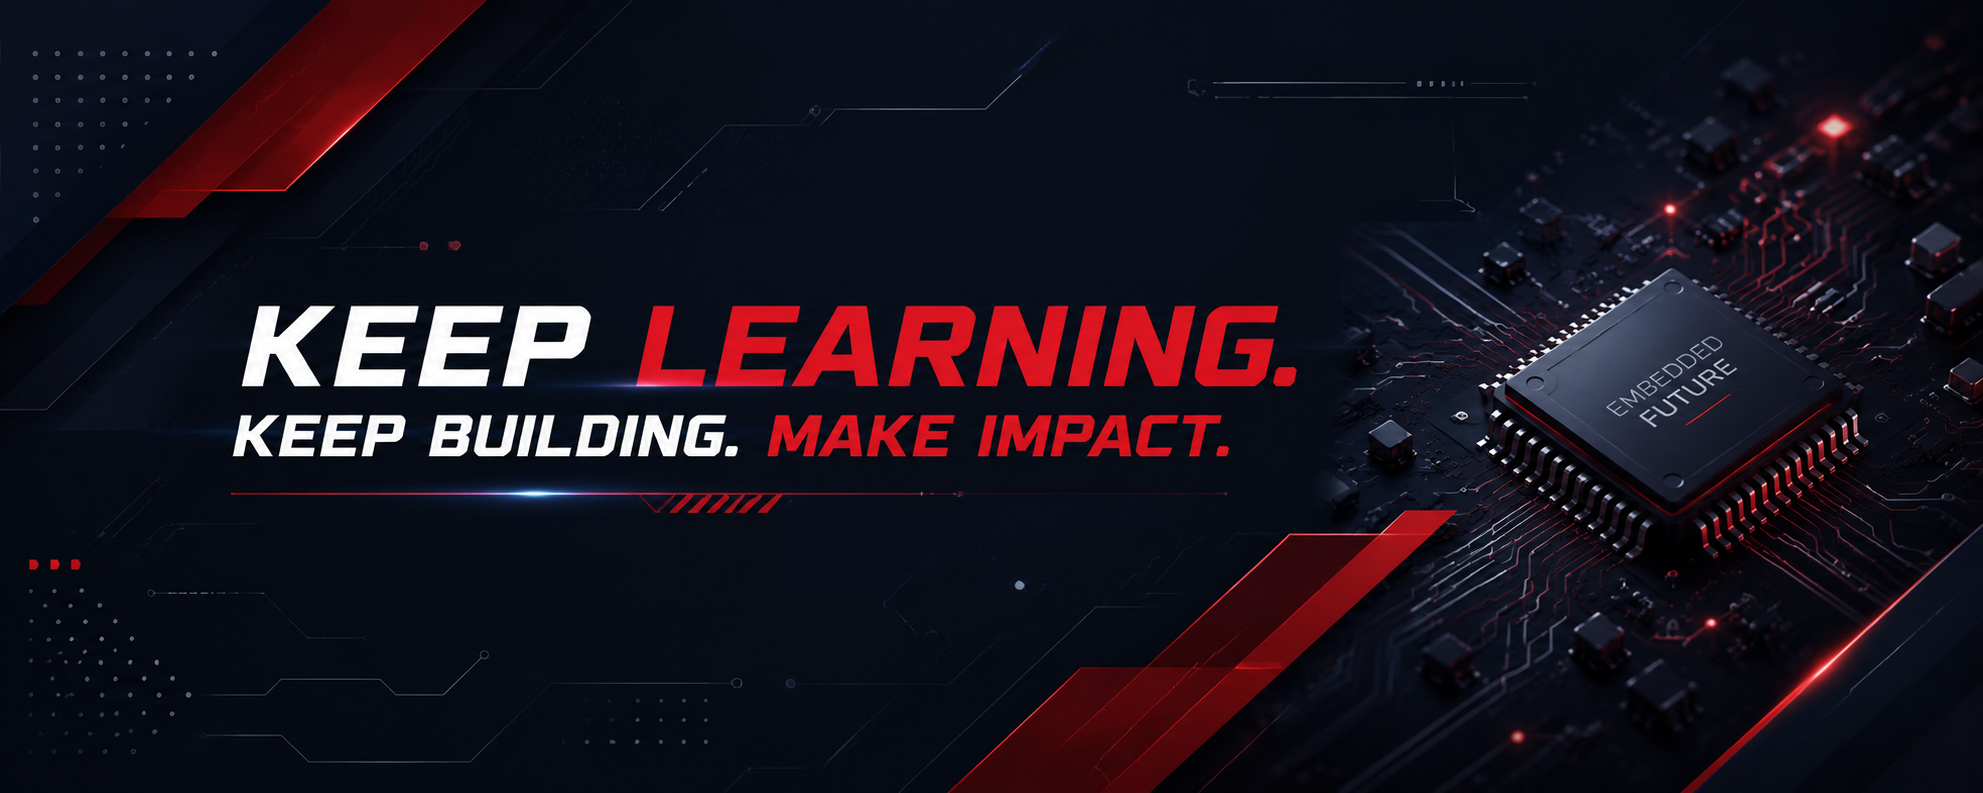
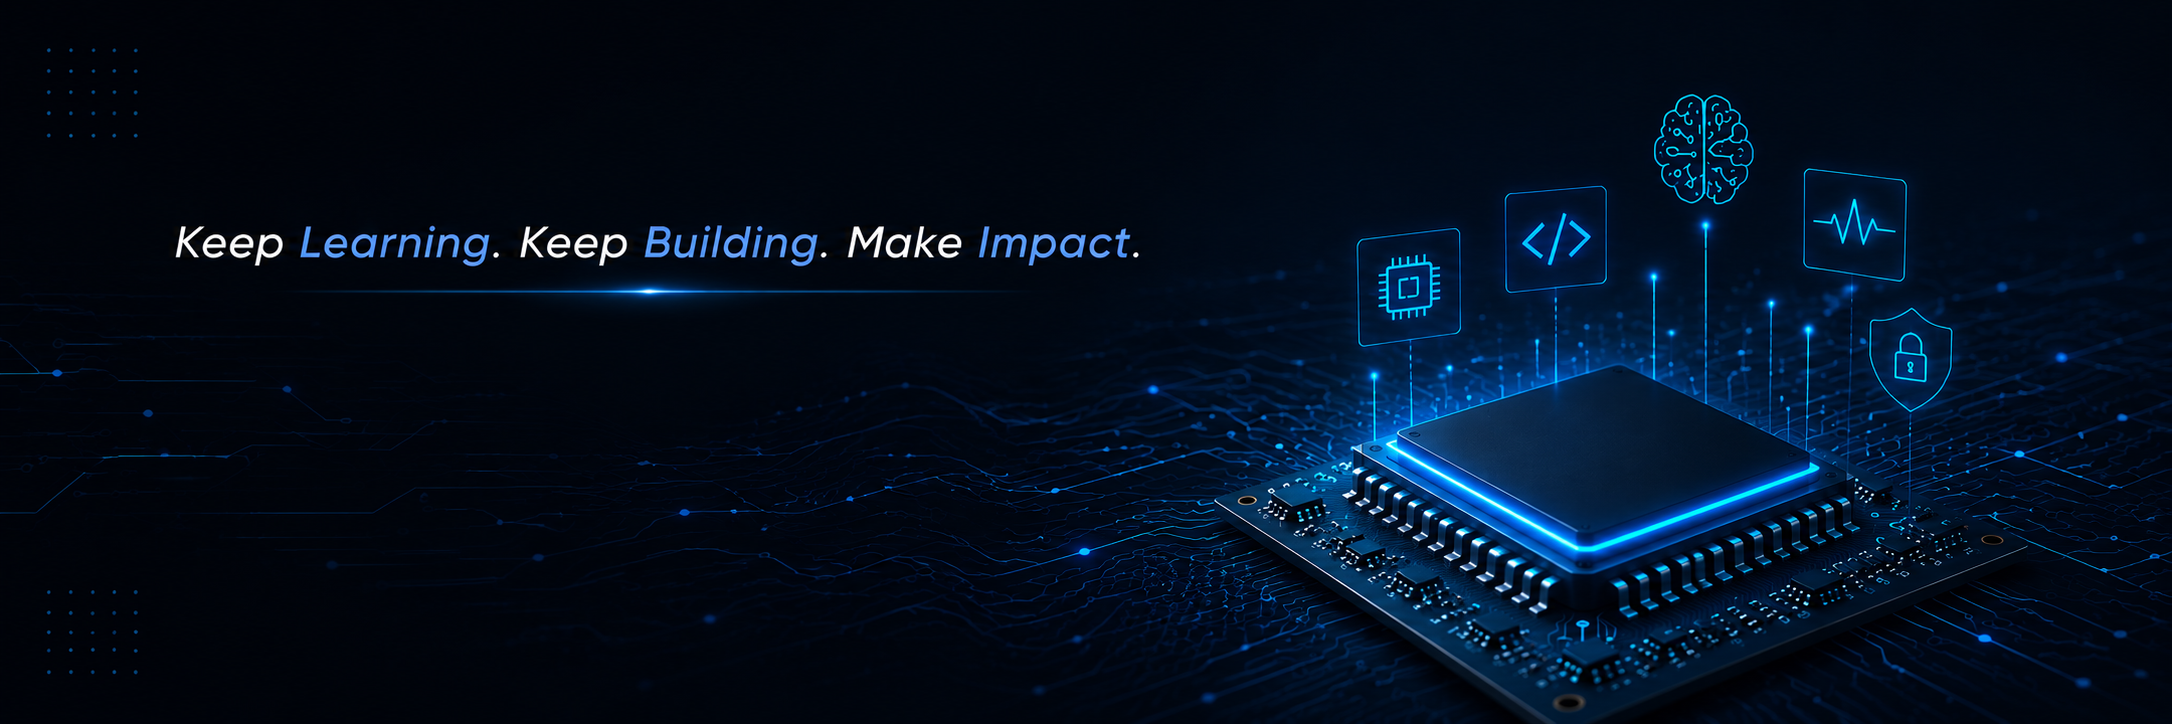
Update about me

diff --git a/README.md b/README.md
@@ -1,13 +1,5 @@
 <div align="center">
-
-<img src="about.png" width="75%">
-
-# Nguyen Hoang Minh Quoc
-
-Third-year student at University of Science (VNU_HCMUS)
-
-*"Keep Learning. Keep Building. Make Impact."*
-
+<img src="about.png" width="65%">
 </div>
 
 ## About Me
@@ -17,10 +9,7 @@ Currently:
 - Developing firmware for CPE modules at FPT Telecom.
 - Researching firmware for biomedical embedded systems integrating TinyML and lightweight cryptography at DESLab.
 
-## Focus
-
-`Embedded Firmware` • `Embedded Linux` • `TinyML` • `Secure IoT`
+My work focus on: `C/C++ firmware development` • `Event-driven design pattern` • `TinyML` • `Secure IoT`
 
 ## Tech
-
 `C` • `C++` • `STM32` • `ESP32` • `Raspberry Pi` • `Linux` `FreeRTOS` • `UART` • `SPI` • `I²C` • `MQTT`
